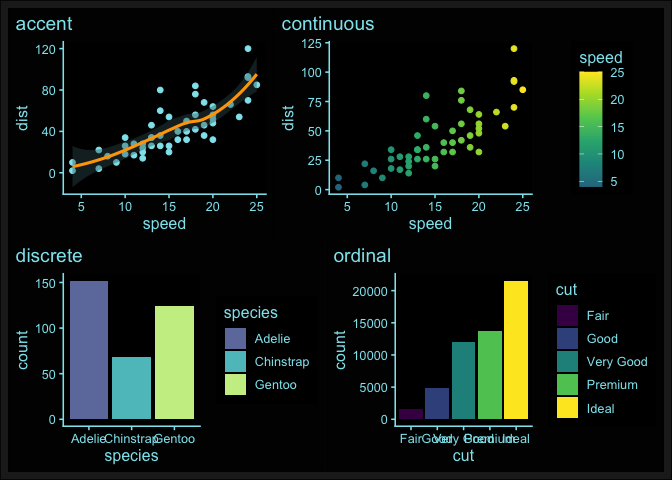
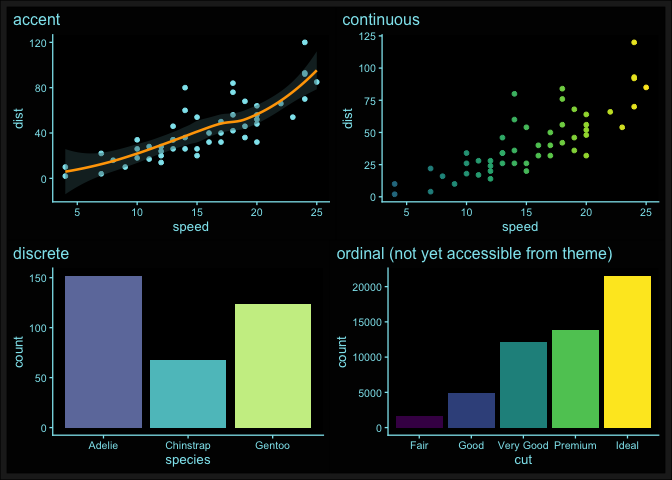
title in description

diff --git a/docs/index.html b/docs/index.html
@@ -5,13 +5,13 @@
 <meta charset="utf-8">
 <meta http-equiv="X-UA-Compatible" content="IE=edge">
 <meta name="viewport" content="width=device-width, initial-scale=1, shrink-to-fit=no">
-<title>What the Package Does (One Line, Title Case) • ggchalkboard</title>
+<title>Styles Plots to Look Like Chalkboards • ggchalkboard</title>
 <script src="deps/jquery-3.6.0/jquery-3.6.0.min.js"></script><meta name="viewport" content="width=device-width, initial-scale=1, shrink-to-fit=no">
 <link href="deps/bootstrap-5.3.1/bootstrap.min.css" rel="stylesheet">
 <script src="deps/bootstrap-5.3.1/bootstrap.bundle.min.js"></script><link href="deps/Atkinson_Hyperlegible-0.4.10/font.css" rel="stylesheet">
 <link href="deps/font-awesome-6.5.2/css/all.min.css" rel="stylesheet">
 <link href="deps/font-awesome-6.5.2/css/v4-shims.min.css" rel="stylesheet">
-<script src="deps/headroom-0.11.0/headroom.min.js"></script><script src="deps/headroom-0.11.0/jQuery.headroom.min.js"></script><script src="deps/bootstrap-toc-1.0.1/bootstrap-toc.min.js"></script><script src="deps/clipboard.js-2.0.11/clipboard.min.js"></script><script src="deps/search-1.0.0/autocomplete.jquery.min.js"></script><script src="deps/search-1.0.0/fuse.min.js"></script><script src="deps/search-1.0.0/mark.min.js"></script><!-- pkgdown --><script src="pkgdown.js"></script><meta property="og:title" content="What the Package Does (One Line, Title Case)">
+<script src="deps/headroom-0.11.0/headroom.min.js"></script><script src="deps/headroom-0.11.0/jQuery.headroom.min.js"></script><script src="deps/bootstrap-toc-1.0.1/bootstrap-toc.min.js"></script><script src="deps/clipboard.js-2.0.11/clipboard.min.js"></script><script src="deps/search-1.0.0/autocomplete.jquery.min.js"></script><script src="deps/search-1.0.0/fuse.min.js"></script><script src="deps/search-1.0.0/mark.min.js"></script><!-- pkgdown --><script src="pkgdown.js"></script><meta property="og:title" content="Styles Plots to Look Like Chalkboards">
 <meta name="description" content="What the package does (one paragraph).">
 <meta property="og:description" content="What the package does (one paragraph).">
 </head>
@@ -68,7 +68,7 @@
 <a href="#more-considerations">More considerations</a>
 <ul>
 <li><a href="#colorblindness-colorblindr">colorblindness colorblindr</a></li>
-<li><a href="#looking-to-the-future-consider-joseph-lamaranges-work-safe_pal">looking to the future… consider Joseph Lamarange’s work!? <code>safe_pal</code></a></li>
+<li><a href="#looking-to-the-future-consider-joseph-lamaranges-work-safe_pal">looking to the future… consider Joseph Lamarange’s work: <code>safe_pal</code></a></li>
 <li><a href="#considerations-for-extenders">Considerations for extenders…</a></li>
 </ul>
 </li>
@@ -100,7 +100,7 @@
 <span>  <span class="fu"><a href="https://ggplot2.tidyverse.org/reference/labs.html" class="external-link">labs</a></span><span class="op">(</span>title <span class="op">=</span> <span class="st">"Default ggplot2 theme"</span><span class="op">)</span></span>
 <span></span>
 <span><span class="fu"><a href="https://ggplot2.tidyverse.org/reference/get_last_plot.html" class="external-link">last_plot</a></span><span class="op">(</span><span class="op">)</span> <span class="op">+</span> </span>
-<span>  <span class="fu"><a href="reference/theme_chalkboard.html">theme_chalkboard</a></span><span class="op">(</span><span class="op">)</span> <span class="op">+</span> </span>
+<span>  <span class="fu">theme_chalkboard</span><span class="op">(</span><span class="op">)</span> <span class="op">+</span> </span>
 <span>  <span class="fu"><a href="https://ggplot2.tidyverse.org/reference/labs.html" class="external-link">labs</a></span><span class="op">(</span>title <span class="op">=</span> <span class="st">"New chalkboard theme"</span><span class="op">)</span></span></code></pre></div>
 <p><img src="reference/figures/README-unnamed-chunk-2-1.png" width="44%"><img src="reference/figures/README-unnamed-chunk-2-2.png" width="44%"></p>
 <!-- But let's not get ahead of ourselves.  Let's start creating by creating theme_chalkboard, which is likely to be familiar as it is a ggplot2 extension entry point.  The topic gets first billing in the ggplot2 extension chapter in ggplot2 and is covered in some detail there, so we won't  https://ggplot2-book.org/extensions  -->
@@ -261,7 +261,7 @@
 <span>  </span>
 <span><span class="op">}</span></span></code></pre></div>
 </details><div class="sourceCode" id="cb9"><pre class="downlit sourceCode r">
-<code class="sourceCode R"><span><span class="fu"><a href="https://ggplot2.tidyverse.org/reference/get_theme.html" class="external-link">theme_set</a></span><span class="op">(</span><span class="fu"><a href="reference/theme_chalkboard.html">theme_chalkboard</a></span><span class="op">(</span>base_size <span class="op">=</span> <span class="fl">10</span><span class="op">)</span><span class="op">)</span></span>
+<code class="sourceCode R"><span><span class="fu"><a href="https://ggplot2.tidyverse.org/reference/get_theme.html" class="external-link">theme_set</a></span><span class="op">(</span><span class="fu">theme_chalkboard</span><span class="op">(</span>base_size <span class="op">=</span> <span class="fl">10</span><span class="op">)</span><span class="op">)</span></span>
 <span></span>
 <span><span class="va">patchwork_ensemble</span></span></code></pre></div>
 <p><img src="reference/figures/README-unnamed-chunk-7-1.png" width="100%"></p>
@@ -279,7 +279,7 @@
 <span>                             <span class="va">base_theme</span> <span class="op">=</span> <span class="va">theme_chalkboard</span>,</span>
 <span>                      <span class="va">...</span><span class="op">)</span><span class="op">{</span></span>
 <span>  </span>
-<span>  <span class="fu"><a href="reference/theme_chalkboard.html">theme_chalkboard</a></span><span class="op">(</span>paper <span class="op">=</span> <span class="va">paper</span>, ink <span class="op">=</span> <span class="va">ink</span>, accent <span class="op">=</span> <span class="va">accent</span>, </span>
+<span>  <span class="fu">theme_chalkboard</span><span class="op">(</span>paper <span class="op">=</span> <span class="va">paper</span>, ink <span class="op">=</span> <span class="va">ink</span>, accent <span class="op">=</span> <span class="va">accent</span>, </span>
 <span>                   base_size <span class="op">=</span> <span class="va">base_size</span>,  <span class="va">...</span><span class="op">)</span></span>
 <span>  </span>
 <span><span class="op">}</span></span></code></pre></div>
@@ -298,7 +298,7 @@
 <span>                             <span class="va">base_theme</span> <span class="op">=</span> <span class="va">theme_chalkboard</span>,</span>
 <span>                      <span class="va">...</span><span class="op">)</span><span class="op">{</span></span>
 <span>  </span>
-<span>  <span class="fu"><a href="reference/theme_chalkboard.html">theme_chalkboard</a></span><span class="op">(</span>paper <span class="op">=</span> <span class="va">paper</span>, ink <span class="op">=</span> <span class="va">ink</span>, base_size <span class="op">=</span> <span class="va">base_size</span>, </span>
+<span>  <span class="fu">theme_chalkboard</span><span class="op">(</span>paper <span class="op">=</span> <span class="va">paper</span>, ink <span class="op">=</span> <span class="va">ink</span>, base_size <span class="op">=</span> <span class="va">base_size</span>, </span>
 <span>                   accent <span class="op">=</span> <span class="va">accent</span>, <span class="va">...</span><span class="op">)</span></span>
 <span>  </span>
 <span><span class="op">}</span></span></code></pre></div>
@@ -309,8 +309,9 @@
 <p><img src="reference/figures/README-unnamed-chunk-9-1.png" width="100%"></p>
 <details><div class="sourceCode" id="cb14"><pre class="downlit sourceCode r">
 <code class="sourceCode R"><span><span class="co">#' @export</span></span>
-<span><span class="va">theme_glassboard</span> <span class="op">&lt;-</span> <span class="kw">function</span><span class="op">(</span><span class="va">paper</span> <span class="op">=</span> <span class="fu"><a href="https://scales.r-lib.org/reference/alpha.html" class="external-link">alpha</a></span><span class="op">(</span><span class="st">"white"</span>, <span class="fl">0</span><span class="op">)</span>, <span class="co"># transparent</span></span>
+<span><span class="va">theme_glassboard</span> <span class="op">&lt;-</span> <span class="kw">function</span><span class="op">(</span></span>
 <span>                             <span class="va">ink</span> <span class="op">=</span> <span class="fu"><a href="https://scales.r-lib.org/reference/alpha.html" class="external-link">alpha</a></span><span class="op">(</span><span class="st">"black"</span>, <span class="fl">.7</span><span class="op">)</span>,</span>
+<span>                             <span class="va">paper</span> <span class="op">=</span> <span class="fu"><a href="https://scales.r-lib.org/reference/alpha.html" class="external-link">alpha</a></span><span class="op">(</span><span class="st">"white"</span>, <span class="fl">0</span><span class="op">)</span>, <span class="co"># transparent</span></span>
 <span>                             <span class="va">accent</span> <span class="op">=</span> <span class="fu"><a href="https://scales.r-lib.org/reference/alpha.html" class="external-link">alpha</a></span><span class="op">(</span><span class="st">"darkred"</span>, <span class="fl">.7</span><span class="op">)</span>,</span>
 <span>                             <span class="va">base_size</span> <span class="op">=</span> <span class="fl">18</span>,</span>
 <span>                             <span class="va">base_theme</span> <span class="op">=</span> <span class="fu">ggplot2</span><span class="fu">::</span><span class="va"><a href="https://ggplot2.tidyverse.org/reference/ggtheme.html" class="external-link">theme_classic</a></span>,</span>
@@ -343,7 +344,7 @@
 <span>                          </span>
 <span>                        <span class="va">...</span><span class="op">)</span><span class="op">{</span></span>
 <span>  </span>
-<span>  <span class="fu"><a href="reference/theme_chalkboard.html">theme_chalkboard</a></span><span class="op">(</span>paper <span class="op">=</span> <span class="va">paper</span>, ink <span class="op">=</span> <span class="va">ink</span>, accent <span class="op">=</span> <span class="va">accent</span>, base_theme <span class="op">=</span> <span class="va">base_theme</span>,</span>
+<span>  <span class="fu">theme_chalkboard</span><span class="op">(</span>paper <span class="op">=</span> <span class="va">paper</span>, ink <span class="op">=</span> <span class="va">ink</span>, accent <span class="op">=</span> <span class="va">accent</span>, base_theme <span class="op">=</span> <span class="va">base_theme</span>,</span>
 <span>          base_size <span class="op">=</span> <span class="va">base_size</span>,</span>
 <span>          palette.colour.continuous <span class="op">=</span> <span class="va">palette.colour.continuous</span>, </span>
 <span>          palette.fill.continuous <span class="op">=</span> <span class="va">palette.fill.continuous</span>,</span>
@@ -396,7 +397,7 @@
 <div class="sourceCode" id="cb21"><pre class="downlit sourceCode r">
 <code class="sourceCode R"><span></span>
 <span><span class="op">(</span><span class="va">patchwork_ensemble</span> <span class="op">&amp;</span></span>
-<span>  <span class="fu"><a href="reference/theme_chalkboard.html">theme_chalkboard</a></span><span class="op">(</span><span class="op">)</span><span class="op">)</span> <span class="op">|&gt;</span> </span>
+<span>  <span class="fu">theme_chalkboard</span><span class="op">(</span><span class="op">)</span><span class="op">)</span> <span class="op">|&gt;</span> </span>
 <span>  <span class="fu">colorblindr</span><span class="fu">::</span><span class="fu"><a href="https://rdrr.io/pkg/colorblindr/man/cvd_grid.html" class="external-link">cvd_grid</a></span><span class="op">(</span><span class="op">)</span></span></code></pre></div>
 <div class="figure">
 <img src="reference/figures/README-unnamed-chunk-16-1.png" alt="A test with colorblindr" width="100%"><p class="caption">
@@ -406,10 +407,10 @@ A test with colorblindr
 <p>Color and fill scale are probably of greater interest, I know. Something to come back to.</p>
 </div>
 <div class="section level2">
-<h2 id="looking-to-the-future-consider-joseph-lamaranges-work-safe_pal">looking to the future… consider Joseph Lamarange’s work!? <code>safe_pal</code>
+<h2 id="looking-to-the-future-consider-joseph-lamaranges-work-safe_pal">looking to the future… consider Joseph Lamarange’s work: <code>safe_pal</code>
 <a class="anchor" aria-label="anchor" href="#looking-to-the-future-consider-joseph-lamaranges-work-safe_pal"></a>
 </h2>
-<div class="sourceCode" id="cb22"><pre class="downlit sourceCode r">
+<details><div class="sourceCode" id="cb22"><pre class="downlit sourceCode r">
 <code class="sourceCode R"><span></span>
 <span><span class="va">ma</span> <span class="op">&lt;-</span> <span class="kw">function</span><span class="op">(</span><span class="va">x</span>,  <span class="va">b</span> <span class="op">=</span> <span class="st">"lightyellow"</span>, <span class="va">amount</span> <span class="op">=</span> <span class="fl">.5</span>, <span class="va">alpha</span> <span class="op">=</span> <span class="fl">.8</span><span class="op">)</span><span class="op">{</span></span>
 <span>  </span>
@@ -437,6 +438,7 @@ A test with colorblindr
 <span>        <span class="fu"><a href="https://rdrr.io/r/base/sample.html" class="external-link">sample</a></span><span class="op">(</span><span class="op">(</span><span class="fu">khroma</span><span class="fu">::</span><span class="fu"><a href="https://packages.tesselle.org/khroma/reference/colour.html" class="external-link">color</a></span><span class="op">(</span><span class="st">"smooth rainbow"</span>, reverse <span class="op">=</span> <span class="va">reverse</span><span class="op">)</span><span class="op">)</span><span class="op">(</span><span class="va">n</span><span class="op">)</span> <span class="op">|&gt;</span> <span class="fu">ma</span><span class="op">(</span>b <span class="op">=</span> <span class="va">b</span>, amount <span class="op">=</span> <span class="va">amount</span>, alpha <span class="op">=</span> <span class="va">alpha</span><span class="op">)</span><span class="op">)</span></span>
 <span>    <span class="op">}</span></span>
 <span><span class="op">}</span></span></code></pre></div>
+</details>
 </div>
 <div class="section level2">
 <h2 id="considerations-for-extenders">Considerations for extenders…<a class="anchor" aria-label="anchor" href="#considerations-for-extenders"></a>
@@ -472,7 +474,7 @@ A test with colorblindr
 <span></span>
 <span><span class="fu"><a href="https://ggplot2.tidyverse.org/reference/ggplot.html" class="external-link">ggplot</a></span><span class="op">(</span>data <span class="op">=</span> <span class="va">titanic_flat</span><span class="op">)</span> <span class="op">+</span> <span class="co"># Ok Lets look at this titanic data</span></span>
 <span>  <span class="fu"><a href="https://ggplot2.tidyverse.org/reference/aes.html" class="external-link">aes</a></span><span class="op">(</span>y <span class="op">=</span> <span class="va">Freq</span>, axis1 <span class="op">=</span> <span class="va">Sex</span>, axis2 <span class="op">=</span> <span class="va">Survived</span><span class="op">)</span> <span class="op">+</span> <span class="co"># Here some variables of interest</span></span>
-<span>  <span class="fu">ggchalkboard</span><span class="fu">:::</span><span class="fu"><a href="reference/theme_chalkboard.html">theme_chalkboard</a></span><span class="op">(</span>base_size <span class="op">=</span> <span class="fl">18</span><span class="op">)</span> <span class="op">+</span> <span class="co"># in a alluvial plot first look</span></span>
+<span>  <span class="fu">ggchalkboard</span><span class="fu">:::</span><span class="fu">theme_chalkboard</span><span class="op">(</span>base_size <span class="op">=</span> <span class="fl">18</span><span class="op">)</span> <span class="op">+</span> <span class="co"># in a alluvial plot first look</span></span>
 <span>  <span class="fu"><a href="http://corybrunson.github.io/ggalluvial/reference/geom_alluvium.html" class="external-link">geom_alluvium</a></span><span class="op">(</span><span class="op">)</span> <span class="op">+</span> <span class="co"># And we are ready to look at flow</span></span>
 <span>  <span class="fu"><a href="http://corybrunson.github.io/ggalluvial/reference/geom_stratum.html" class="external-link">geom_stratum</a></span><span class="op">(</span><span class="op">)</span> <span class="op">+</span> <span class="co"># And we can label our stratum axes</span></span>
 <span>  <span class="fu"><a href="http://corybrunson.github.io/ggalluvial/reference/stat_stratum.html" class="external-link">stat_stratum</a></span><span class="op">(</span>geom <span class="op">=</span> <span class="st">"text"</span>, <span class="fu"><a href="https://ggplot2.tidyverse.org/reference/aes.html" class="external-link">aes</a></span><span class="op">(</span>label <span class="op">=</span> <span class="fu"><a href="https://ggplot2.tidyverse.org/reference/aes_eval.html" class="external-link">after_stat</a></span><span class="op">(</span><span class="va">stratum</span><span class="op">)</span><span class="op">)</span><span class="op">)</span> </span></code></pre></div>
@@ -510,12 +512,12 @@ A test with colorblindr
 <span><span class="co">#&gt;         inherit.aes = inherit.aes, params = list(width = width, </span></span>
 <span><span class="co">#&gt;             na.rm = na.rm, ...))</span></span>
 <span><span class="co">#&gt; }</span></span>
-<span><span class="co">#&gt; &lt;bytecode: 0x1371b8320&gt;</span></span>
+<span><span class="co">#&gt; &lt;bytecode: 0x1230b5078&gt;</span></span>
 <span><span class="co">#&gt; &lt;environment: namespace:ggalluvial&gt;</span></span>
 <span></span>
 <span><span class="fu"><a href="https://ggplot2.tidyverse.org/reference/ggplot.html" class="external-link">ggplot</a></span><span class="op">(</span>data <span class="op">=</span> <span class="va">titanic_flat</span><span class="op">)</span> <span class="op">+</span> <span class="co"># Ok Lets look at this titanic data</span></span>
 <span>  <span class="fu"><a href="https://ggplot2.tidyverse.org/reference/aes.html" class="external-link">aes</a></span><span class="op">(</span>y <span class="op">=</span> <span class="va">Freq</span>, axis1 <span class="op">=</span> <span class="va">Sex</span>, axis2 <span class="op">=</span> <span class="va">Survived</span><span class="op">)</span> <span class="op">+</span> <span class="co"># Here some variables of interest</span></span>
-<span>  <span class="fu">ggchalkboard</span><span class="fu">::</span><span class="fu"><a href="reference/theme_chalkboard.html">theme_chalkboard</a></span><span class="op">(</span>base_size <span class="op">=</span> <span class="fl">18</span><span class="op">)</span> <span class="op">+</span> <span class="co"># in a alluvial plot first look</span></span>
+<span>  <span class="fu">ggchalkboard</span><span class="fu">::</span><span class="fu">theme_chalkboard</span><span class="op">(</span>base_size <span class="op">=</span> <span class="fl">18</span><span class="op">)</span> <span class="op">+</span> <span class="co"># in a alluvial plot first look</span></span>
 <span>  <span class="fu"><a href="http://corybrunson.github.io/ggalluvial/reference/geom_alluvium.html" class="external-link">geom_alluvium</a></span><span class="op">(</span><span class="op">)</span> <span class="op">+</span> <span class="co"># And we are ready to look at flow</span></span>
 <span>  <span class="fu"><a href="http://corybrunson.github.io/ggalluvial/reference/geom_stratum.html" class="external-link">geom_stratum</a></span><span class="op">(</span><span class="op">)</span> <span class="op">+</span> <span class="co"># And we can label our stratum axes</span></span>
 <span>  <span class="fu"><a href="http://corybrunson.github.io/ggalluvial/reference/stat_stratum.html" class="external-link">stat_stratum</a></span><span class="op">(</span>geom <span class="op">=</span> <span class="st">"text"</span>, <span class="fu"><a href="https://ggplot2.tidyverse.org/reference/aes.html" class="external-link">aes</a></span><span class="op">(</span>label <span class="op">=</span> <span class="fu"><a href="https://ggplot2.tidyverse.org/reference/aes_eval.html" class="external-link">after_stat</a></span><span class="op">(</span><span class="va">stratum</span><span class="op">)</span><span class="op">)</span><span class="op">)</span> </span></code></pre></div>

diff --git a/docs/reference/index.html b/docs/reference/index.html
@@ -1,5 +1,5 @@
 <!DOCTYPE html>
-<!-- Generated by pkgdown: do not edit by hand --><html lang="en"><head><meta http-equiv="Content-Type" content="text/html; charset=UTF-8"><meta charset="utf-8"><meta http-equiv="X-UA-Compatible" content="IE=edge"><meta name="viewport" content="width=device-width, initial-scale=1, shrink-to-fit=no"><title>Package index • ggchalkboard</title><script src="../deps/jquery-3.6.0/jquery-3.6.0.min.js"></script><meta name="viewport" content="width=device-width, initial-scale=1, shrink-to-fit=no"><link href="../deps/bootstrap-5.3.1/bootstrap.min.css" rel="stylesheet"><script src="../deps/bootstrap-5.3.1/bootstrap.bundle.min.js"></script><link href="../deps/Atkinson_Hyperlegible-0.4.10/font.css" rel="stylesheet"><link href="../deps/font-awesome-6.5.2/css/all.min.css" rel="stylesheet"><link href="../deps/font-awesome-6.5.2/css/v4-shims.min.css" rel="stylesheet"><script src="../deps/headroom-0.11.0/headroom.min.js"></script><script src="../deps/headroom-0.11.0/jQuery.headroom.min.js"></script><script src="../deps/bootstrap-toc-1.0.1/bootstrap-toc.min.js"></script><script src="../deps/clipboard.js-2.0.11/clipboard.min.js"></script><script src="../deps/search-1.0.0/autocomplete.jquery.min.js"></script><script src="../deps/search-1.0.0/fuse.min.js"></script><script src="../deps/search-1.0.0/mark.min.js"></script><!-- pkgdown --><script src="../pkgdown.js"></script><meta property="og:title" content="Package index"></head><body>
+<!-- Generated by pkgdown: do not edit by hand --><html lang="en"><head><meta http-equiv="Content-Type" content="text/html; charset=UTF-8"><meta charset="utf-8"><meta http-equiv="X-UA-Compatible" content="IE=edge"><meta name="viewport" content="width=device-width, initial-scale=1, shrink-to-fit=no"><title> • ggchalkboard</title><script src="../deps/jquery-3.6.0/jquery-3.6.0.min.js"></script><meta name="viewport" content="width=device-width, initial-scale=1, shrink-to-fit=no"><link href="../deps/bootstrap-5.3.1/bootstrap.min.css" rel="stylesheet"><script src="../deps/bootstrap-5.3.1/bootstrap.bundle.min.js"></script><link href="../deps/Atkinson_Hyperlegible-0.4.10/font.css" rel="stylesheet"><link href="../deps/font-awesome-6.5.2/css/all.min.css" rel="stylesheet"><link href="../deps/font-awesome-6.5.2/css/v4-shims.min.css" rel="stylesheet"><script src="../deps/headroom-0.11.0/headroom.min.js"></script><script src="../deps/headroom-0.11.0/jQuery.headroom.min.js"></script><script src="../deps/bootstrap-toc-1.0.1/bootstrap-toc.min.js"></script><script src="../deps/clipboard.js-2.0.11/clipboard.min.js"></script><script src="../deps/search-1.0.0/autocomplete.jquery.min.js"></script><script src="../deps/search-1.0.0/fuse.min.js"></script><script src="../deps/search-1.0.0/mark.min.js"></script><!-- pkgdown --><script src="../pkgdown.js"></script><meta property="og:title" content=""></head><body>
     <a href="#main" class="visually-hidden-focusable">Skip to contents</a>
 
 
@@ -28,26 +28,10 @@
 <div class="row">
   <main id="main" class="col-md-9"><div class="page-header">
 
-      <h1>Package index</h1>
+      <h1></h1>
     </div>
 
-    <div class="section level2">
-      <h2 id="all-functions">All functions<a class="anchor" aria-label="anchor" href="#all-functions"></a></h2>
 
-
-
-      <dl></dl></div><div class="section level2">
-
-
-
-
-      <dl><dt>
-
-          <code><a href="theme_chalkboard.html">theme_chalkboard()</a></code>
-
-        </dt>
-        <dd>Title</dd>
-      </dl></div>
   </main></div>
 
 

diff --git a/docs/READMEold.html b/docs/READMEold.html
@@ -99,7 +99,7 @@
 <div class="sourceCode" id="cb5"><pre class="downlit sourceCode r">
 <code class="sourceCode R"><span></span>
 <span><span class="fu"><a href="https://ggplot2.tidyverse.org/reference/get_last_plot.html" class="external-link">last_plot</a></span><span class="op">(</span><span class="op">)</span> <span class="op">+</span></span>
-<span>  <span class="fu"><a href="reference/theme_chalkboard.html">theme_chalkboard</a></span><span class="op">(</span><span class="op">)</span></span></code></pre></div>
+<span>  <span class="fu">theme_chalkboard</span><span class="op">(</span><span class="op">)</span></span></code></pre></div>
 <p><img src="reference/figures/README-unnamed-chunk-4-2.png" width="100%"></p>
 <p>This looks pretty good to me! But … who used a sharpie on the chalkboard!? Layers (geoms_* and stats_*) should be chalk-like too…</p>
 <div class="section level2">
@@ -402,7 +402,7 @@
 <div class="sourceCode" id="cb18"><pre class="downlit sourceCode r">
 <code class="sourceCode R"><span><span class="va">theme_chalkboard_slate</span> <span class="op">&lt;-</span> <span class="kw">function</span><span class="op">(</span><span class="va">...</span><span class="op">)</span><span class="op">{</span></span>
 <span></span>
-<span>  <span class="fu"><a href="reference/theme_chalkboard.html">theme_chalkboard</a></span><span class="op">(</span>board_color <span class="op">=</span> <span class="st">"lightskyblue4"</span>, chalk_color <span class="op">=</span> <span class="st">"honeydew"</span>, <span class="va">...</span><span class="op">)</span></span>
+<span>  <span class="fu">theme_chalkboard</span><span class="op">(</span>board_color <span class="op">=</span> <span class="st">"lightskyblue4"</span>, chalk_color <span class="op">=</span> <span class="st">"honeydew"</span>, <span class="va">...</span><span class="op">)</span></span>
 <span></span>
 <span><span class="op">}</span></span>
 <span></span>
@@ -432,7 +432,7 @@
 <span><span class="fu"><a href="https://ggplot2.tidyverse.org/reference/ggplot.html" class="external-link">ggplot</a></span><span class="op">(</span>data <span class="op">=</span> <span class="va">cars</span><span class="op">)</span> <span class="op">+</span> </span>
 <span>  <span class="fu"><a href="https://ggplot2.tidyverse.org/reference/aes.html" class="external-link">aes</a></span><span class="op">(</span>x <span class="op">=</span> <span class="va">speed</span>, y <span class="op">=</span> <span class="va">dist</span>, size <span class="op">=</span> <span class="va">dist</span><span class="op">)</span> <span class="op">+</span> </span>
 <span>  <span class="fu"><a href="https://ggplot2.tidyverse.org/reference/geom_point.html" class="external-link">geom_point</a></span><span class="op">(</span><span class="op">)</span> <span class="op">+</span> </span>
-<span>  <span class="fu"><a href="reference/theme_chalkboard.html">theme_chalkboard</a></span><span class="op">(</span><span class="op">)</span> <span class="op">+</span> </span>
+<span>  <span class="fu">theme_chalkboard</span><span class="op">(</span><span class="op">)</span> <span class="op">+</span> </span>
 <span>  <span class="fu">scale_size_chalkboard</span><span class="op">(</span><span class="op">)</span></span></code></pre></div>
 <p><img src="reference/figures/README-unnamed-chunk-16-1.png" width="100%"></p>
 <p>Color and fill scale are probably of greater interest, I know. Something to come back to.</p>
@@ -490,7 +490,7 @@
 <span><span class="fu"><a href="https://ggplot2.tidyverse.org/reference/ggplot.html" class="external-link">ggplot</a></span><span class="op">(</span>data <span class="op">=</span> <span class="va">cars</span><span class="op">)</span> <span class="op">+</span> </span>
 <span>  <span class="fu"><a href="https://ggplot2.tidyverse.org/reference/aes.html" class="external-link">aes</a></span><span class="op">(</span>x <span class="op">=</span> <span class="va">speed</span><span class="op">)</span> <span class="op">+</span> </span>
 <span>  <span class="fu"><a href="https://ggplot2.tidyverse.org/reference/geom_histogram.html" class="external-link">geom_histogram</a></span><span class="op">(</span><span class="op">)</span> <span class="op">+</span> </span>
-<span>  <span class="fu">ggchalkboard</span><span class="fu">:::</span><span class="fu"><a href="reference/theme_chalkboard.html">theme_chalkboard</a></span><span class="op">(</span><span class="op">)</span></span>
+<span>  <span class="fu">ggchalkboard</span><span class="fu">:::</span><span class="fu">theme_chalkboard</span><span class="op">(</span><span class="op">)</span></span>
 <span></span>
 <span><span class="fu">ggchalkboard</span><span class="fu">:::</span><span class="fu">geoms_chalk_on</span><span class="op">(</span><span class="op">)</span></span>
 <span></span>

diff --git a/docs/authors.html b/docs/authors.html
@@ -45,11 +45,11 @@
       <p></p>
 
       <p>Reynolds E (2026).
-<em>ggchalkboard: What the Package Does (One Line, Title Case)</em>.
+<em>ggchalkboard: Styles Plots to Look Like Chalkboards</em>.
 R package version 0.0.0.9000.
 </p>
       <pre>@Manual{,
-  title = {ggchalkboard: What the Package Does (One Line, Title Case)},
+  title = {ggchalkboard: Styles Plots to Look Like Chalkboards},
   author = {Evangeline Reynolds},
   year = {2026},
   note = {R package version 0.0.0.9000},

diff --git a/README.md b/README.md
@@ -388,7 +388,7 @@ theme_set(theme_rosling(base_size = 10))
 patchwork_ensemble
 ```
 
-<img src="man/figures/README-unnamed-chunk-12-1.png" width="100%" />
+<img src="man/figures/README-unnamed-chunk-11-1.png" width="100%" />
 
 # Minimal working package
 
@@ -404,11 +404,16 @@ devtools::create(".")
 #knitrExtra::chunk_names_get()
 usethis::use_package("ggplot2")
 
+
 knitrExtra:::chunk_to_r("theme_chalkboard")
 knitrExtra:::chunk_to_r("theme_blackboard")
 knitrExtra:::chunk_to_r("theme_whiteboard")
 knitrExtra:::chunk_to_r("theme_slateboard")
 knitrExtra:::chunk_to_r("theme_glassboard")
+knitrExtra:::chunk_to_r("theme_rosling")
+
+
+devtools::document()
 ```
 
 </details>
@@ -435,7 +440,7 @@ devtools::install(pkg = ".", upgrade = "never")
 
 <div class="figure">
 
-<img src="man/figures/README-unnamed-chunk-16-1.png" alt="A test with colorblindr" width="100%" />
+<img src="man/figures/README-unnamed-chunk-15-1.png" alt="A test with colorblindr" width="100%" />
 <p class="caption">
 
 A test with colorblindr
@@ -523,7 +528,7 @@ ggplot(data = titanic_flat) + # Ok Lets look at this titanic data
   stat_stratum(geom = "text", aes(label = after_stat(stratum))) 
 ```
 
-<img src="man/figures/README-unnamed-chunk-18-1.png" width="100%" />
+<img src="man/figures/README-unnamed-chunk-17-1.png" width="100%" />
 
 ``` r
 
@@ -558,7 +563,7 @@ geom_stratum
 #>         inherit.aes = inherit.aes, params = list(width = width, 
 #>             na.rm = na.rm, ...))
 #> }
-#> <bytecode: 0x1230b5078>
+#> <bytecode: 0x13d882000>
 #> <environment: namespace:ggalluvial>
 
 ggplot(data = titanic_flat) + # Ok Lets look at this titanic data
@@ -569,4 +574,4 @@ ggplot(data = titanic_flat) + # Ok Lets look at this titanic data
   stat_stratum(geom = "text", aes(label = after_stat(stratum))) 
 ```
 
-<img src="man/figures/README-unnamed-chunk-18-2.png" width="100%" />
+<img src="man/figures/README-unnamed-chunk-17-2.png" width="100%" />

diff --git a/docs/index.md b/docs/index.md
@@ -13,7 +13,7 @@
   - [check and install](#check-and-install)
 - [More considerations](#more-considerations)
   - [colorblindness colorblindr](#colorblindness-colorblindr)
-  - [looking to the future… consider Joseph Lamarange’s work!?
+  - [looking to the future… consider Joseph Lamarange’s work:
     `safe_pal`](#looking-to-the-future-consider-joseph-lamaranges-work-safe_pal)
   - [Considerations for extenders…](#considerations-for-extenders)
 
@@ -293,8 +293,9 @@ patchwork_ensemble
 
 ``` r
 #' @export
-theme_glassboard <- function(paper = alpha("white", 0), # transparent
+theme_glassboard <- function(
                              ink = alpha("black", .7),
+                             paper = alpha("white", 0), # transparent
                              accent = alpha("darkred", .7),
                              base_size = 18,
                              base_theme = ggplot2::theme_classic,
@@ -398,7 +399,7 @@ A test with colorblindr
 Color and fill scale are probably of greater interest, I know. Something
 to come back to.
 
-## looking to the future… consider Joseph Lamarange’s work!? `safe_pal`
+## looking to the future… consider Joseph Lamarange’s work: `safe_pal`
 
 ``` r
 
@@ -506,7 +507,7 @@ geom_stratum
 #>         inherit.aes = inherit.aes, params = list(width = width, 
 #>             na.rm = na.rm, ...))
 #> }
-#> <bytecode: 0x1371b8320>
+#> <bytecode: 0x1230b5078>
 #> <environment: namespace:ggalluvial>
 
 ggplot(data = titanic_flat) + # Ok Lets look at this titanic data

diff --git a/docs/authors.md b/docs/authors.md
@@ -7,11 +7,11 @@
 
 ## Citation
 
-Reynolds E (2026). *ggchalkboard: What the Package Does (One Line, Title
-Case)*. R package version 0.0.0.9000.
+Reynolds E (2026). *ggchalkboard: Styles Plots to Look Like
+Chalkboards*. R package version 0.0.0.9000.
 
     @Manual{,
-      title = {ggchalkboard: What the Package Does (One Line, Title Case)},
+      title = {ggchalkboard: Styles Plots to Look Like Chalkboards},
       author = {Evangeline Reynolds},
       year = {2026},
       note = {R package version 0.0.0.9000},

diff --git a/docs/reference/index.md b/docs/reference/index.md
@@ -1,5 +1,1 @@
-# Package index
-
-## All functions
-
-- [`theme_chalkboard()`](theme_chalkboard.md) : Title
+# 